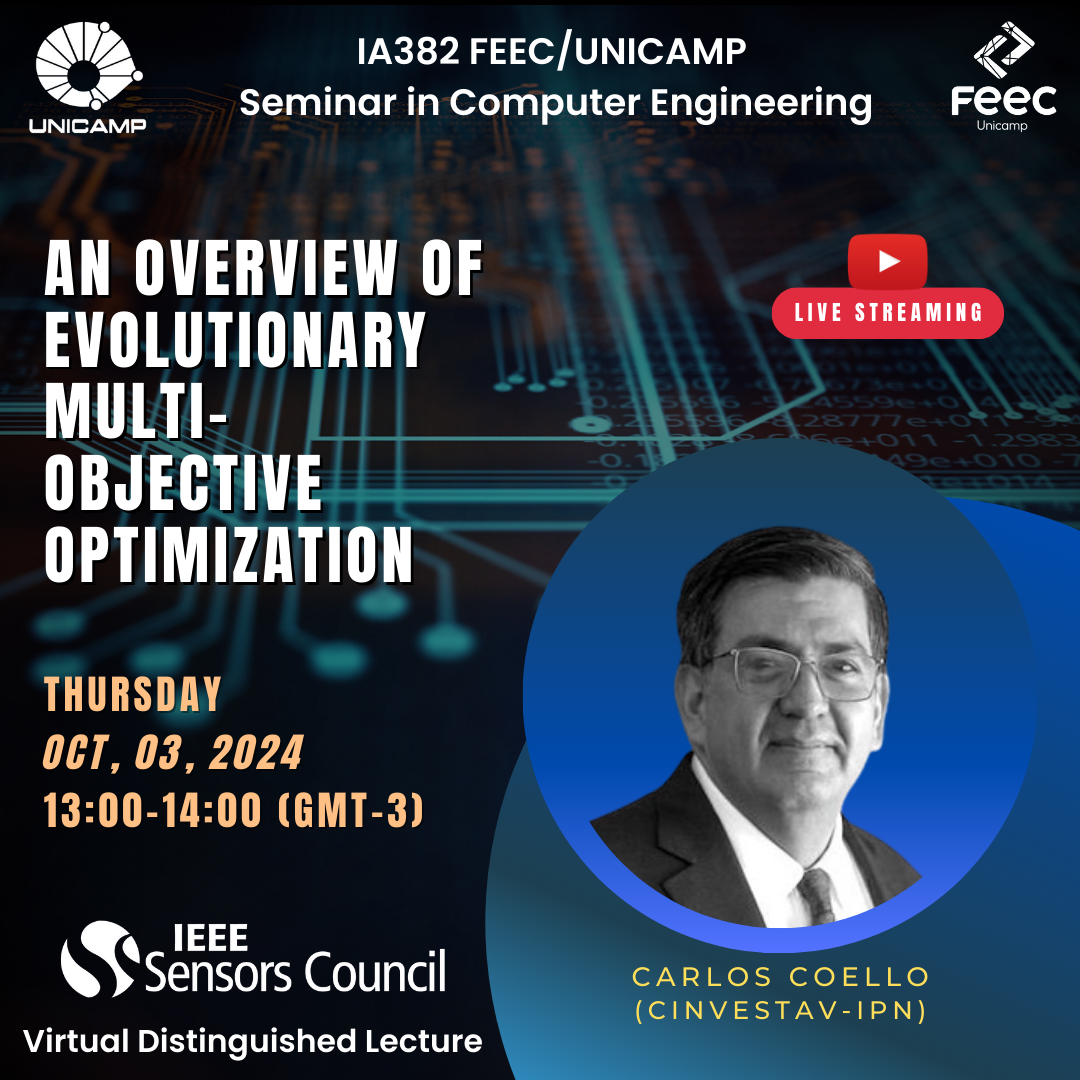
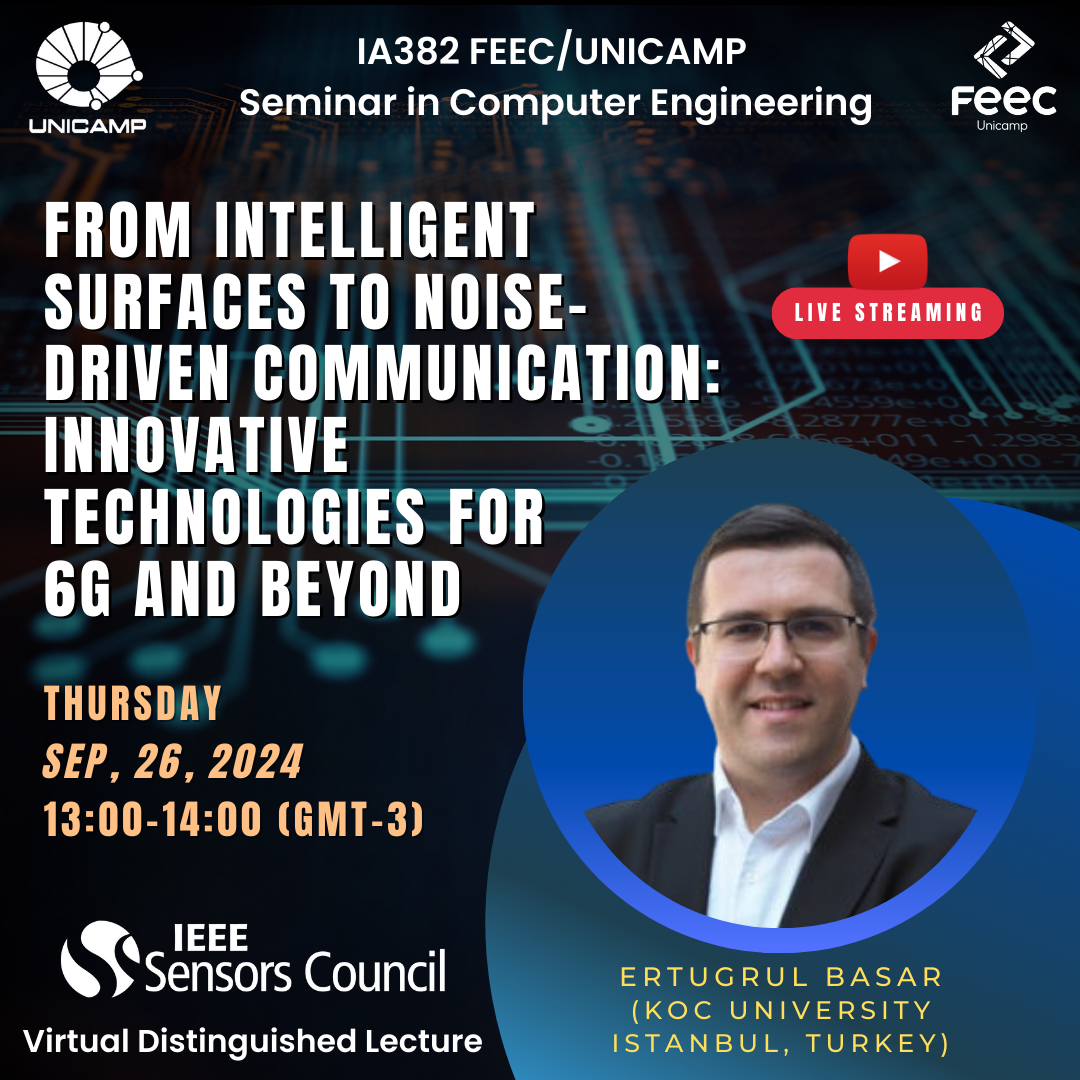
new seminars

Changed region(s): [[0.0306, 0.1833, 0.6722, 0.5806], [0.5194, 0.4583, 0.9167, 0.9778], [0.0306, 0.6111, 0.3972, 0.7944]]

diff --git a/content/seminars/seminars-2-2024/5/index.md b/content/seminars/seminars-2-2024/5/index.md
@@ -1,25 +1,24 @@
 ---
-title: "Let the Plants do the Talking: Climate-Smart Agriculture by the Messages Received from Plants and Soil"
-date: 2024-08-31T10:36:45-03:00
+title: "An Overview of Evolutionary Multi-Objective Optimization"
+date: 2024-08-31T10:37:45-03:00
 draft: false
-tags: ["Climate-Smart Agriculture", "IoT in Agriculture", "Wearable Sensors for Plants"]
+tags: ["Multi-objective Optimization", "Evolutionary Algorithms", "MOEAs"]
 series: ["Seminars-2-2024"]
 series_order: 5
 ---
 
 ## Abstract
-As reported in the report recently issued by the United Nations (Intergovernmental Panel on Climate Change – IPCC Report 2021), the benefits that technology provides to a green and sustainable economy are highly appreciated and under intense research and development globally. Circuits and Systems (CAS), which are the base for any system, can bring the needed functionalities and performances for reaching eco-friendly, circular and practical solutions. The IoT active connections in agriculture (as an example in Europe) are exponentially increasing, proving that Climate-Smart Agriculture (CSA or Precision/Smart Agriculture) is a very fast-growing research field, where more controlled quality production, water use optimisation, and a lower spreading of pesticides and fertilisers are some key issues, serving the improvement of food quality, but also helping the respect of agriculture for the environment. To reach these targets, electronics are the perfect tool for interfacing the data sources, extracting and processing the data, and obtaining the needed information along the whole food chain: from the farmer and the professional stakeholders to the consumers. In the Distinguished Lecture, an overview of electronics for CSA will be presented, analysing the possible solutions that can bring important innovations, advancing the actual strategies based on remote or indirect measurements by instead of in-place measuring the plant and soil parameters (a.k.a. Let the Plants do The Talking), associated with more standard information derived from environmental conditions. This new and disruptive technology, related to Wearable Sensors for Plants, the World Economic Forum has recently identified it as one of the “Top five technologies about to change the world”, indicating it as one of the key solutions to increase food production by 70% by 2050 to be able to feed the world population. Application scenarios for crop monitoring, water control, information communication and decision support will be presented. In particular, it will be analysed technologies for reaching the needed levels of low power and low cost and the efficient ones to be applied to AgriFood at the global scale, also supporting food security and sustainability.
+Multi-objective optimization refers to solving problems having two or more (often conflicting) objectives at the same time. Such problems are ill-defined and their solution is not a single solution but instead, a set of them, which represent the best possible trade-offs among the objectives. Evolutionary algorithms are particularly suitable for solving multi-objective problems because they are population-based, and require little domain-specific information to conduct the search. Due to these advantages, the development of the so-called multi-objective evolutionary algorithms (MOEAs) has significantly increased in the last 15 years. In this talk, we will provide a general overview of the field, including the main algorithms in current use as well as some of the many applications of them.
 
 
 ## Bio
-<img alt="Mischa Dohler" src="/seminars/seminars-2-2024/5/danilo.png" style="width: 40%; height: 160x;">
+<img alt="Mischa Dohler" src="/seminars/seminars-2-2024/5/carlos_coello.png" style="width: 40%; height: 160x;">
 
-Full Professor at Politecnico di Torino, Department of Electronics and Telecommunications. Smart System Integration and IoTs for the AgriFood Value Chain and for BioMedical Devices. Pioneer in the research on Wearable Plant Sensors. Visiting Professor at EPFL Lausanne (2019) and at Tel Aviv University (2018-2021). Visiting Scientist (2018) at MIT and Harvard Medical School for the project SISTER (Smart electronic IoT SysTEms for Rehabilitation sciences). Author and co-author of 5 patents and more than 350 scientific publications in international journals and peer-reviewed conference proceedings. Leading the eLiONS (electronic Life-Oriented iNtelligent Systems - http://elions.polito.it) Laboratory of Politecnico di Torino and coordinating the Italian Institute of Technology Microelectronics group at Politecnico di Torino (IIT@DET). Founder and Editor in Chief of the IEEE Transactions on AgriFood Electronics -TAFE (https://ieee-cas.org/publication/ieee-transactions-agrifood-electronics). Founder and General-Co-Chair of the IEEE Conference on AgriFood Electronics - CAFE (https://2023.iee-cafe.org). Founder and Vice-Chair of the IEEE CAS Special Interest Group on AgriFood Electronics. 2023-2024 Distinguished Lecturer for the IEEE CAS Society with the Lecture "Let the Plants Do the Talking: Smart Agriculture by the messages received from Plants and Soil". Founder at Politecnico di Torino of the Master's Degree in AgriTech Engineering, where he is teaching the course of "IoT for Agriculture". Member of the IEEE Sensors Council (2020-2023) and the BioCAS Technical Committee (2013-today). Associate Editor of the IEEE Open Journal on Engineering in Medicine and Biology (OJ-EMB) and the Springer-Nature Journal BioNanoScience. Senior Member of IEEE.  General Chair of IEEE BioCAS (Biomedical Circuits and Systems) Conference in 2017 in Torino and founder of IEEE FoodCAS Workshop (Circuits and Systems for the FoodChain). TPC Co-Chair of IEEE ICECS 2019, IEEE BioCAS 2021 and 2022 conferences. General Co-Chair of IEEE BioCAS 2023. Organizer of the 3rd Seasonal School on AgriFood Electronics: Smart Technologies for a Sustainable Agriculture in Torino, September 2022.
+Carlos Artemio Coello Coello received a PhD in Computer Science from Tulane University (USA) in 1996. His research has mainly focused on the design of new multi-objective optimization algorithms based on bio-inspired metaheuristics (e.g., evolutionary algorithms), which is an area in which he has made pioneering contributions. He has received several awards, including the National Research Award (in 2007) from the Mexican Academy of Science and the 2012 National Medal of Science in Physics, Mathematics and Natural Sciences from Mexico's presidency, the 2013 IEEE Kiyo Tomiyasu Award, the 2016 The World Academy of Sciences (TWAS) Award in “Engineering Sciences”, and the 2021 IEEE Computational Intelligence Society Evolutionary Computation Pioneer Award. Since January 2011, he is an IEEE Fellow. He is currently the Editor-in-Chief of the IEEE Transactions on Evolutionary Computation. He is Full Professor with distinction (Investigador Cinvestav 3F) at the Computer Science Department of CINVESTAV-IPN in Mexico City, Mexico.
 
 ## Contact
 [E-mail](carlos.coellocoello@cinvestav.mx) \
-[Danilo's website](https://elions.polito.it/team-member/demarchi-danilo/) \
-[Google Scholar](https://scholar.google.com/citations?hl=pt-BR&user=J_vNPF0AAAAJ)
+[Google Scholar](https://scholar.google.com/citations?hl=pt-BR&user=oJMnjNYAAAAJ)
 
 ## Resources and Materials
 

diff --git a/content/seminars/seminars-2-2024/4/index.md b/content/seminars/seminars-2-2024/4/index.md
@@ -1,24 +1,25 @@
 ---
-title: "An Overview of Evolutionary Multi-Objective Optimization"
-date: 2024-08-31T10:37:45-03:00
+title: "From Intelligent Surfaces to Noise-Driven Communication:  Innovative Technologies for 6G and Beyond"
+date: 2024-08-31T10:38:45-03:00
 draft: false
-tags: ["Multi-objective Optimization", "Evolutionary Algorithms", "MOEAs"]
+tags: ["RIS-empowered communication", "noise-driven communication", "6G wireless networks"]
 series: ["Seminars-2-2024"]
 series_order: 4
 ---
 
 ## Abstract
-Multi-objective optimization refers to solving problems having two or more (often conflicting) objectives at the same time. Such problems are ill-defined and their solution is not a single solution but instead, a set of them, which represent the best possible trade-offs among the objectives. Evolutionary algorithms are particularly suitable for solving multi-objective problems because they are population-based, and require little domain-specific information to conduct the search. Due to these advantages, the development of the so-called multi-objective evolutionary algorithms (MOEAs) has significantly increased in the last 15 years. In this talk, we will provide a general overview of the field, including the main algorithms in current use as well as some of the many applications of them.
+Our community has witnessed the rise of many exciting communication technologies in recent years. Notable examples include alternative waveforms, massive multiple-input multiple-output signaling, non-orthogonal multiple access, joint communications and sensing, AI-empowered systems, and so on. In this context, 6G wireless networks will inevitably require a rethinking of wireless communication systems and technologies, particularly at the physical layer, since the cellular industry reached another critical milestone with the development of 5G wireless networks with diverse applications. Within this perspective, first, this talk aims to shed light on the most recent developments in reconfigurable intelligent surface (RIS)-empowered communication towards 6G and beyond wireless networks by discussing promising candidates for future research and development. Specifically, we emphasize different RIS architectures and emerging RIS use cases. Second, taking RIS-based radio frequency chain-free transmitters one step further, we put forward the paradigm of noise-driven communication. We discuss the potential of noise-driven communication systems for three purposes: low/zero-signal-power transmission by indexing resistors or other noise sources according to information bits, noise-alike waveform/modulation design for improved communication efficiency, and unconditionally secure key generation using noise-based loops.
 
 
 ## Bio
-<img alt="Mischa Dohler" src="/seminars/seminars-2-2024/4/carlos_coello.png" style="width: 40%; height: 160x;">
+<img alt="Mischa Dohler" src="/seminars/seminars-2-2024/4/ertugrul_basar.png" style="width: 40%; height: 160x;">
 
-Carlos Artemio Coello Coello received a PhD in Computer Science from Tulane University (USA) in 1996. His research has mainly focused on the design of new multi-objective optimization algorithms based on bio-inspired metaheuristics (e.g., evolutionary algorithms), which is an area in which he has made pioneering contributions. He has received several awards, including the National Research Award (in 2007) from the Mexican Academy of Science and the 2012 National Medal of Science in Physics, Mathematics and Natural Sciences from Mexico's presidency, the 2013 IEEE Kiyo Tomiyasu Award, the 2016 The World Academy of Sciences (TWAS) Award in “Engineering Sciences”, and the 2021 IEEE Computational Intelligence Society Evolutionary Computation Pioneer Award. Since January 2011, he is an IEEE Fellow. He is currently the Editor-in-Chief of the IEEE Transactions on Evolutionary Computation. He is Full Professor with distinction (Investigador Cinvestav 3F) at the Computer Science Department of CINVESTAV-IPN in Mexico City, Mexico.
+Prof. Ertuğrul Başar received his Ph.D. degree from Istanbul Technical University in 2013. He is a Professor at the Department of Electrical and Electronics Engineering, Koç University, Istanbul, Turkey, and the director of the Communications Research and Innovation Laboratory (CoreLab). He had visiting positions at Ruhr University Bochum, Germany (2022, Mercator Fellow) and Princeton University, USA (2011-2012, Visiting Research Collaborator). His primary research interests include 6G and beyond wireless networks, communication theory and systems, reconfigurable intelligent surfaces, software-defined radio implementations, waveform design, physical layer security, and deep learning and signal processing for communications. In the past, Dr. Başar served as an Editor/Senior Editor for many journals, including IEEE Communications Letters (2016-2022), IEEE Transactions on Communications (2018-2022), Physical Communication (2017-2020), and IEEE Access (2016-2018). Currently, he is an Editor of Frontiers in Communications and Networks. He is the author/co-author of more than 170 international journal publications and 16 patents that received around 15K citations. He also supervised 5 PhD and 18 master’s students. He is an Associate Member of the Turkish Academy of Sciences (TÜBA). In recognition of his outstanding contributions to physical-layer design for next-generation wireless networks, Prof. Basar was elevated to IEEE Fellow in 2023, becoming one of the youngest IEEE Fellows of Turkey at the age of 37. He is also a Fellow of the Asia-Pacific Artificial Intelligence Association (AAIA) and the Artificial Intelligence Industry Academy (AIIA). Recently, Dr. Basar has been selected as an IEEE ComSoc Distinguished Lecturer for the Class of 2024-2025.
 
 ## Contact
-[E-mail](carlos.coellocoello@cinvestav.mx) \
-[Google Scholar](https://scholar.google.com/citations?hl=pt-BR&user=oJMnjNYAAAAJ)
+[E-mail](ebasar@ku.edu.tr) \
+[Google Scholar](https://scholar.google.com/citations?hl=pt-BR&user=zRdAU7kAAAAJ) \
+[CoreLab's website](https://corelab.ku.edu.tr/ertugrul-basar/)
 
 ## Resources and Materials
 
@@ -27,5 +28,5 @@ Carlos Artemio Coello Coello received a PhD in Computer Science from Tulane Univ
 <!--<iframe width="560" height="315" src="https://www.youtube.com/embed/yz6Eg-J3CQE" title="YouTube video player" frameborder="0" allow="accelerometer; autoplay; clipboard-write; encrypted-media; gyroscope; picture-in-picture; web-share" allowfullscreen></iframe>
 -->
 
-**Save the date:** 13:00 - 14:00 (Brazil time), October, 3rd, 2024.
+**Save the date:** 13:00 - 14:00 (Brazil time), September, 26th, 2024.
 

diff --git a/content/seminars/seminars-2-2024/7/index.md b/content/seminars/seminars-2-2024/7/index.md
@@ -1,0 +1,32 @@
+---
+title: "Let the Plants do the Talking: Climate-Smart Agriculture by the Messages Received from Plants and Soil"
+date: 2024-08-31T10:36:45-03:00
+draft: false
+tags: ["Climate-Smart Agriculture", "IoT in Agriculture", "Wearable Sensors for Plants"]
+series: ["Seminars-2-2024"]
+series_order: 7
+---
+
+## Abstract
+As reported in the report recently issued by the United Nations (Intergovernmental Panel on Climate Change – IPCC Report 2021), the benefits that technology provides to a green and sustainable economy are highly appreciated and under intense research and development globally. Circuits and Systems (CAS), which are the base for any system, can bring the needed functionalities and performances for reaching eco-friendly, circular and practical solutions. The IoT active connections in agriculture (as an example in Europe) are exponentially increasing, proving that Climate-Smart Agriculture (CSA or Precision/Smart Agriculture) is a very fast-growing research field, where more controlled quality production, water use optimisation, and a lower spreading of pesticides and fertilisers are some key issues, serving the improvement of food quality, but also helping the respect of agriculture for the environment. To reach these targets, electronics are the perfect tool for interfacing the data sources, extracting and processing the data, and obtaining the needed information along the whole food chain: from the farmer and the professional stakeholders to the consumers. In the Distinguished Lecture, an overview of electronics for CSA will be presented, analysing the possible solutions that can bring important innovations, advancing the actual strategies based on remote or indirect measurements by instead of in-place measuring the plant and soil parameters (a.k.a. Let the Plants do The Talking), associated with more standard information derived from environmental conditions. This new and disruptive technology, related to Wearable Sensors for Plants, the World Economic Forum has recently identified it as one of the “Top five technologies about to change the world”, indicating it as one of the key solutions to increase food production by 70% by 2050 to be able to feed the world population. Application scenarios for crop monitoring, water control, information communication and decision support will be presented. In particular, it will be analysed technologies for reaching the needed levels of low power and low cost and the efficient ones to be applied to AgriFood at the global scale, also supporting food security and sustainability.
+
+
+## Bio
+<img alt="Mischa Dohler" src="/seminars/seminars-2-2024/7/danilo.png" style="width: 40%; height: 160x;">
+
+Full Professor at Politecnico di Torino, Department of Electronics and Telecommunications. Smart System Integration and IoTs for the AgriFood Value Chain and for BioMedical Devices. Pioneer in the research on Wearable Plant Sensors. Visiting Professor at EPFL Lausanne (2019) and at Tel Aviv University (2018-2021). Visiting Scientist (2018) at MIT and Harvard Medical School for the project SISTER (Smart electronic IoT SysTEms for Rehabilitation sciences). Author and co-author of 5 patents and more than 350 scientific publications in international journals and peer-reviewed conference proceedings. Leading the eLiONS (electronic Life-Oriented iNtelligent Systems - http://elions.polito.it) Laboratory of Politecnico di Torino and coordinating the Italian Institute of Technology Microelectronics group at Politecnico di Torino (IIT@DET). Founder and Editor in Chief of the IEEE Transactions on AgriFood Electronics -TAFE (https://ieee-cas.org/publication/ieee-transactions-agrifood-electronics). Founder and General-Co-Chair of the IEEE Conference on AgriFood Electronics - CAFE (https://2023.iee-cafe.org). Founder and Vice-Chair of the IEEE CAS Special Interest Group on AgriFood Electronics. 2023-2024 Distinguished Lecturer for the IEEE CAS Society with the Lecture "Let the Plants Do the Talking: Smart Agriculture by the messages received from Plants and Soil". Founder at Politecnico di Torino of the Master's Degree in AgriTech Engineering, where he is teaching the course of "IoT for Agriculture". Member of the IEEE Sensors Council (2020-2023) and the BioCAS Technical Committee (2013-today). Associate Editor of the IEEE Open Journal on Engineering in Medicine and Biology (OJ-EMB) and the Springer-Nature Journal BioNanoScience. Senior Member of IEEE.  General Chair of IEEE BioCAS (Biomedical Circuits and Systems) Conference in 2017 in Torino and founder of IEEE FoodCAS Workshop (Circuits and Systems for the FoodChain). TPC Co-Chair of IEEE ICECS 2019, IEEE BioCAS 2021 and 2022 conferences. General Co-Chair of IEEE BioCAS 2023. Organizer of the 3rd Seasonal School on AgriFood Electronics: Smart Technologies for a Sustainable Agriculture in Torino, September 2022.
+
+## Contact
+[E-mail](carlos.coellocoello@cinvestav.mx) \
+[Danilo's website](https://elions.polito.it/team-member/demarchi-danilo/) \
+[Google Scholar](https://scholar.google.com/citations?hl=pt-BR&user=J_vNPF0AAAAJ)
+
+## Resources and Materials
+
+[FEEC UNICAMP streams](https://www.youtube.com/@feec-unicamp/streams)
+
+<!--<iframe width="560" height="315" src="https://www.youtube.com/embed/yz6Eg-J3CQE" title="YouTube video player" frameborder="0" allow="accelerometer; autoplay; clipboard-write; encrypted-media; gyroscope; picture-in-picture; web-share" allowfullscreen></iframe>
+-->
+
+**Save the date:** 13:00 - 14:00 (Brazil time), October, 3rd, 2024.
+

diff --git a/content/seminars/seminars-2-2024/6/index.md b/content/seminars/seminars-2-2024/6/index.md
@@ -1,0 +1,31 @@
+---
+title: "Packet Trimming at the Edge for Low Latency in 6G Environments"
+date: 2024-08-31T10:36:45-03:00
+draft: false
+tags: ["packet trimming", "low latency communication", "6G network optimization"]
+series: ["Seminars-2-2024"]
+series_order: 6
+---
+
+## Abstract
+The talk presents the use of packet trimming, a technique which adjusts the size of a packet during its transmission over the network, and has the ability to provide low latency and low loss at the client. It allows a much better level of control and manageability, compared to existing transport approaches using UDP or TCP. For best behaviour and performance, packet trimming has to be well matched to the application data format.  Packet trimming needs support at the server/sender, in the network edge, and at the client to achieve this best performance. The approach taken for each of these is presented.  We have found that using trimming is good for fixed bandwidths, and is highly adaptable to dynamic bandwidth changes.  As such, it is ideal for Beyond 5G and 6G scenarios, where trimming functions can be placed at the edge.
+
+
+## Bio
+<img alt="Mischa Dohler" src="/seminars/seminars-2-2024/6/stuart_clayman.png" style="width: 40%; height: 160x;">
+
+Stuart Clayman received his PhD in Computer Science from University College London in 1994. He is currently a Principal Research Fellow at UCL EEE department, and he has worked as a Research Lecturer at Kingston University and at UCL.  He co-authored over 75 conference and journal papers. His research interests and expertise lie in the areas of software engineering and programming paradigms; distributed systems; virtualised compute and network systems, network and systems management; sensor systems and smart city platforms, and artificial intelligence systems. He is looking at multi-domain distributed systems, new techniques for large-scale sensor systems, as well as enhanced mechanisms for end-to-end delivery of digital video. He also has extensive experience in the commercial arena undertaking architecture and development for software engineering, distributed systems and networking systems. He has run his own technology start-up in the area of NoSQL databases, sensor data, and digital media.
+
+## Contact
+[E-mail](s.clayman@ucl.ac.uk) \
+[Google Scholar](https://scholar.google.com/citations?hl=pt-BR&user=OK_8vesAAAAJ)
+
+## Resources and Materials
+
+[FEEC UNICAMP streams](https://www.youtube.com/@feec-unicamp/streams)
+
+<!--<iframe width="560" height="315" src="https://www.youtube.com/embed/yz6Eg-J3CQE" title="YouTube video player" frameborder="0" allow="accelerometer; autoplay; clipboard-write; encrypted-media; gyroscope; picture-in-picture; web-share" allowfullscreen></iframe>
+-->
+
+**Save the date:** 13:00 - 14:00 (Brazil time), October, 10th, 2024.
+
